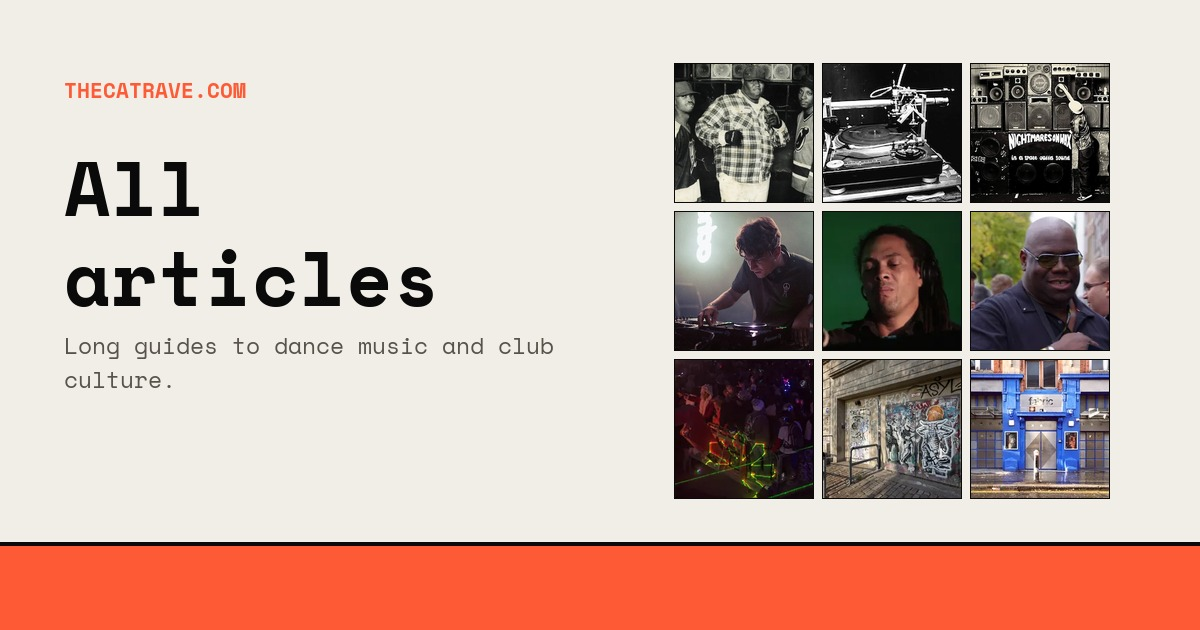
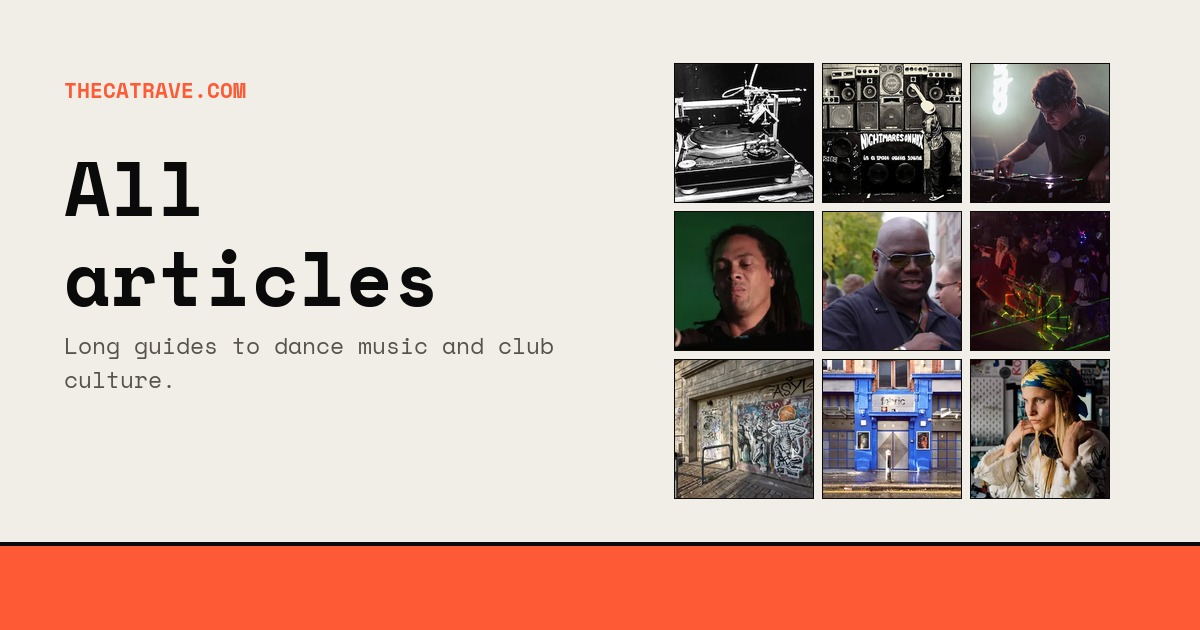
Share cards: Boiler Room back to the script's card, the articles wall current
img/og/best-boiler-room-sets.jpg on main was the article's Fred again..
photograph dropped in whole, with no title or brand, while HERO in
build-og-cards.py names the Carl Cox card. Nothing recorded why, and the
script overwrites a hand-placed card on its next run without a word, which is
how this was found. The card is now the script's own output, and the script
says in writing that a share card is never a file placed by hand; to change
one, change HERO. Defect og-card-hand-replaced, closed by that sentence.

img/og/articles.jpg was the wall from before the Live DJ sets guide: its cover
missing, the oldest one still on. Regenerated. The cause stays open as defect
articles-card-stale-after-new-guide: the build does not run the card script,
so any card drawn from the catalogue goes stale when a guide is added.

sitemap.xml: the London guide's lastmod now comes from its commit rather than
from the file's mtime before it was committed.

Changed region(s): [[0.555, 0.0905, 0.925, 0.8143]]

diff --git a/scripts/build-og-cards.py b/scripts/build-og-cards.py
@@ -47,6 +47,11 @@ FONTS = {
                 "https://github.com/googlefonts/spacemono/raw/main/fonts/ttf/SpaceMono-Regular.ttf"),
 }
 
+# A share card is this script's output, never a file placed by hand. A card
+# swapped in by hand survives only until the next run, which overwrites it
+# without a word: best-boiler-room-sets.jpg was a raw photograph on main until
+# 2026-09-12 (defect og-card-hand-replaced). To change a card, change HERO.
+#
 # The hero each card carries. Kept here rather than in pages.mjs because it is
 # only ever the card's business; the page picks its own in-article images.
 HERO = {
